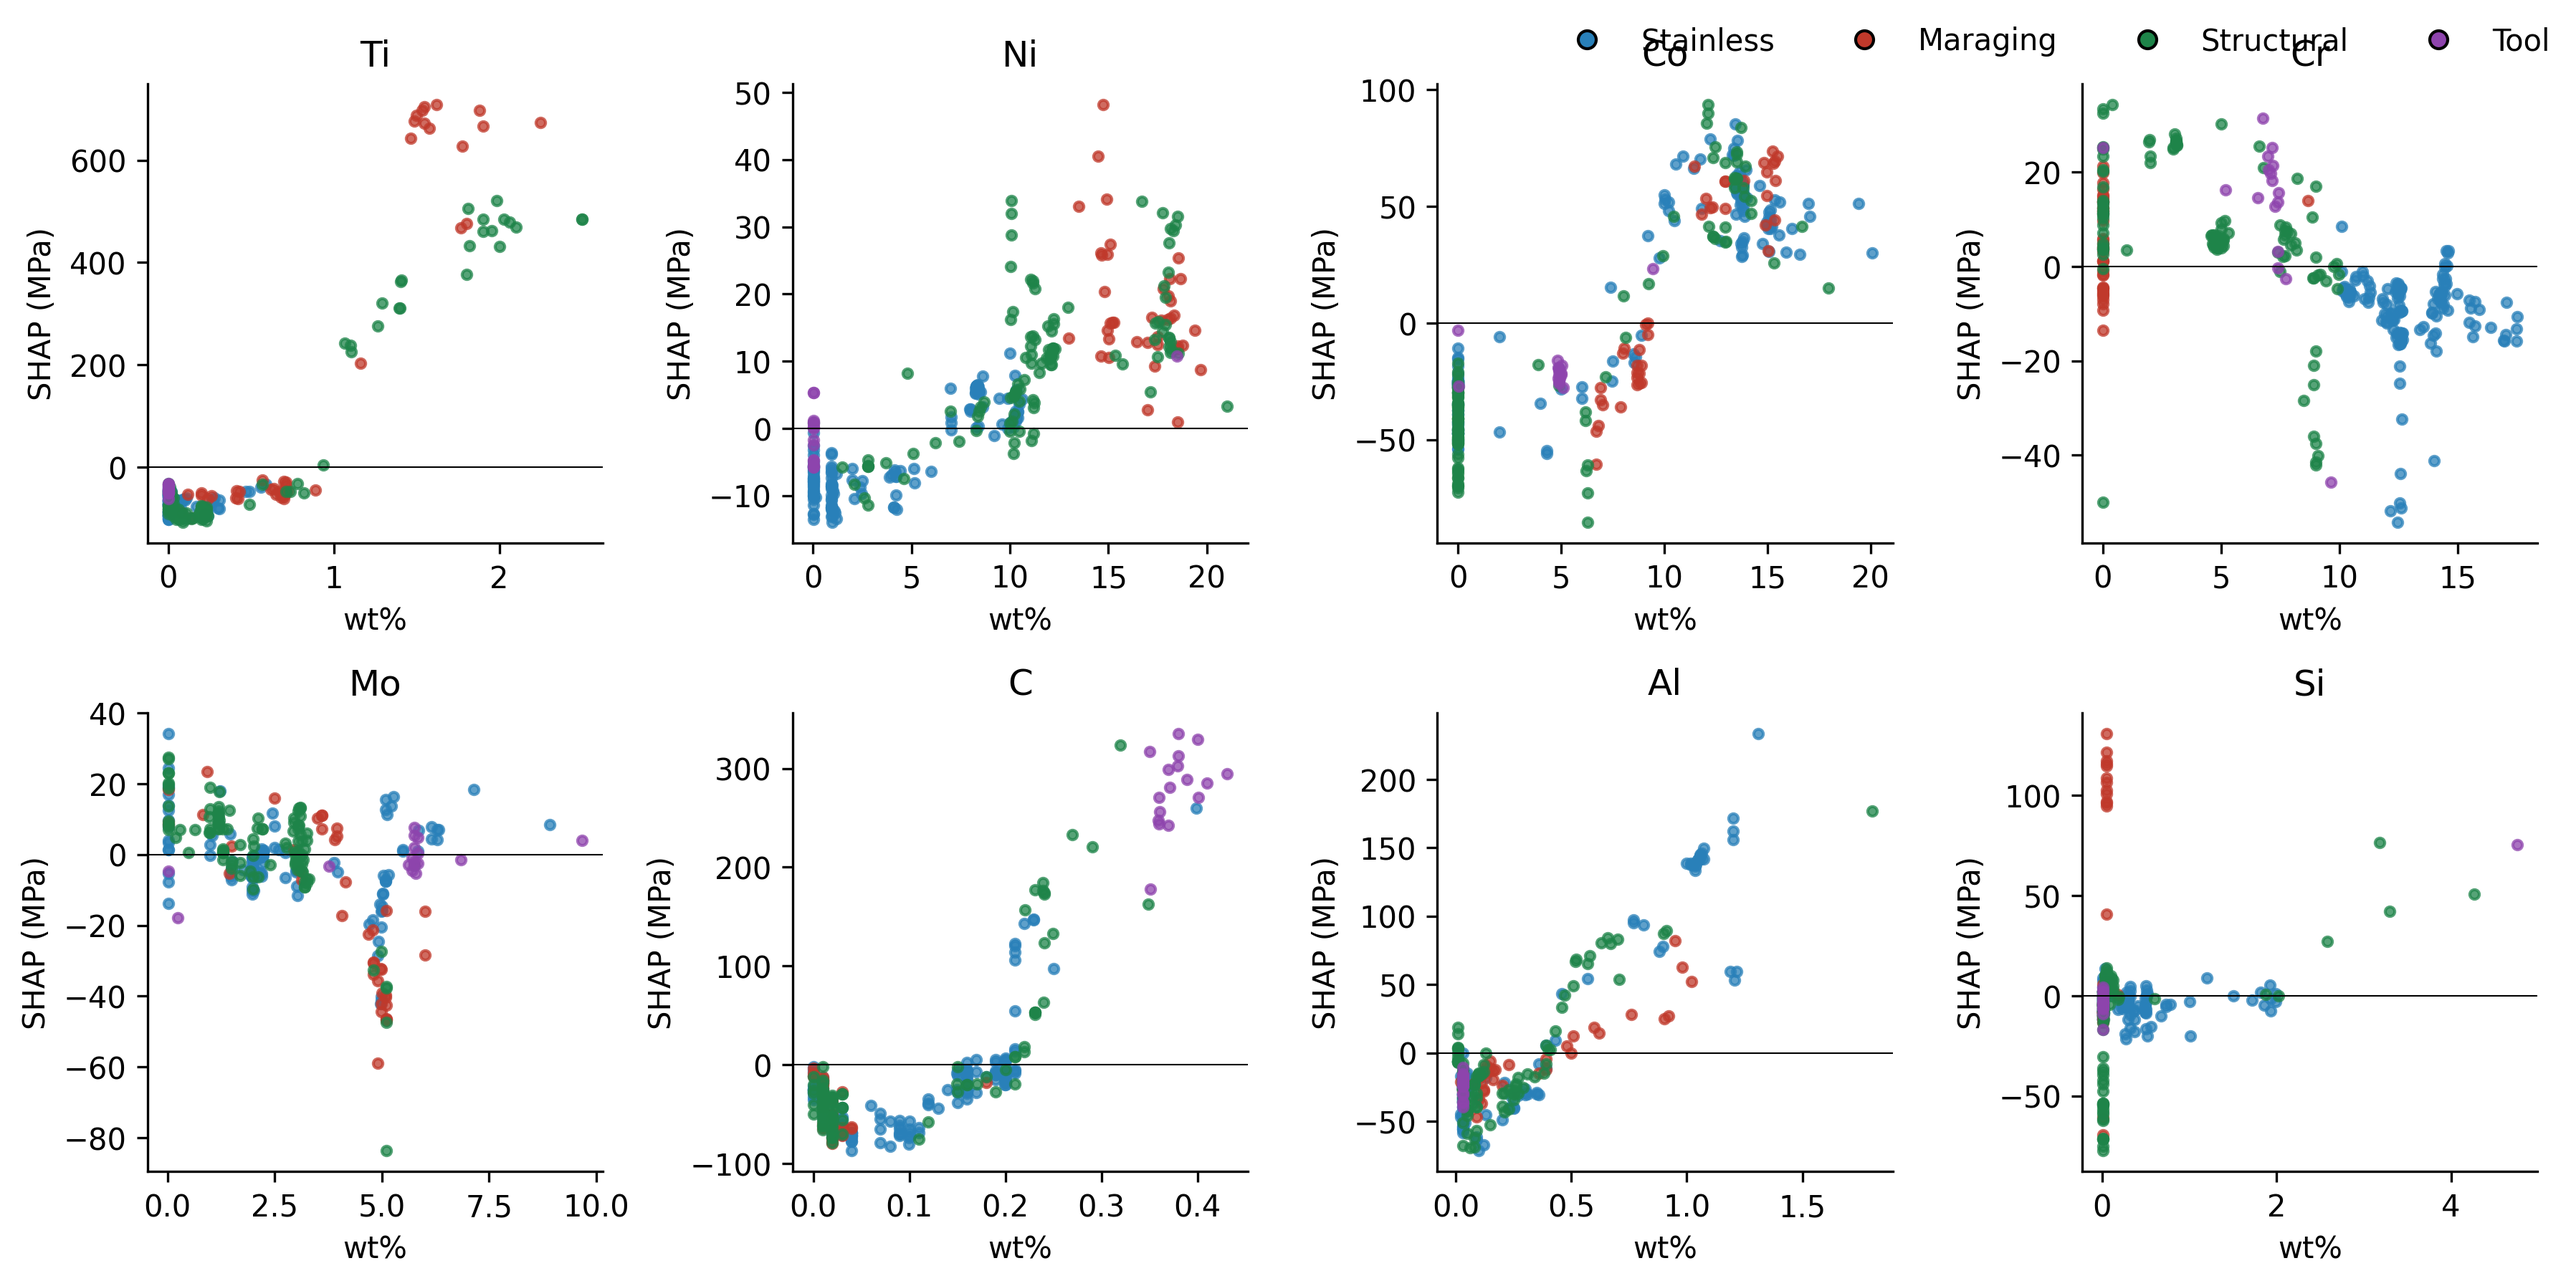
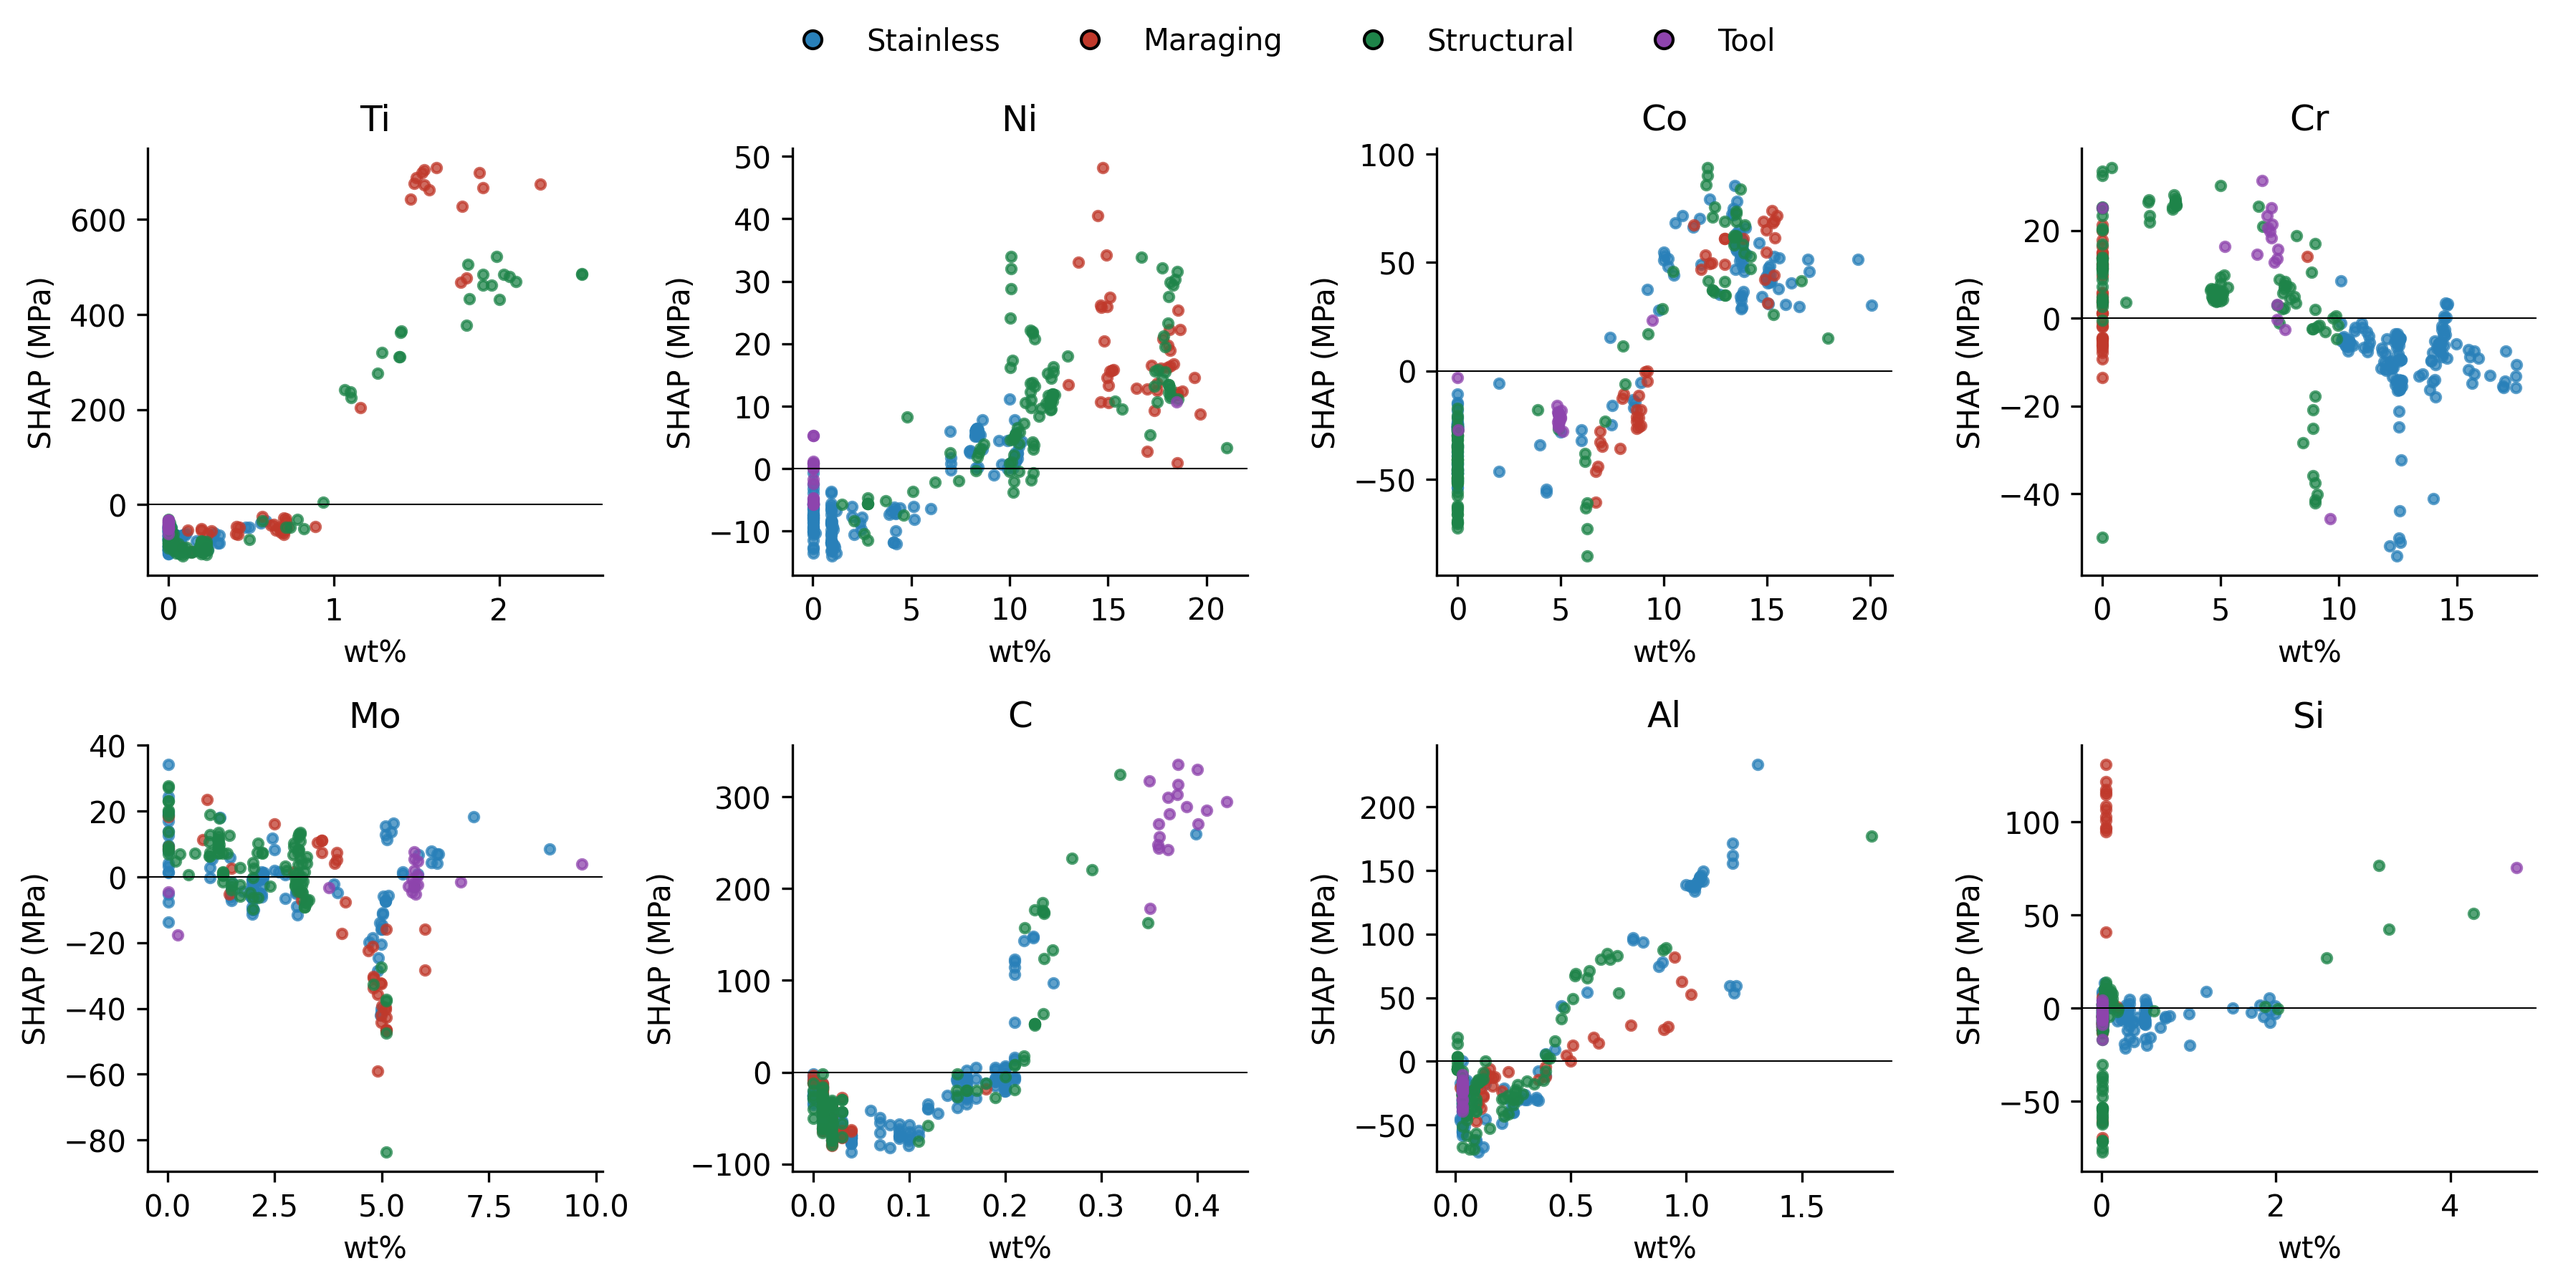
Move the SHAP dependence legend clear of the panels

diff --git a/src/stage4_shap.py b/src/stage4_shap.py
@@ -629,8 +629,8 @@ def _plot_dependence(headline, df_wt, families):
         ax.set_xlabel("wt%")
         ax.set_ylabel("SHAP (MPa)")
     handles = [Line2D([0], [0], marker="o", color="none", markerfacecolor=c, label=f, markersize=6) for f, c in FAMILY_COLORS.items()]
-    fig.legend(handles=handles, frameon=False, loc="upper right", ncol=4)
-    fig.tight_layout()
+    fig.legend(handles=handles, frameon=False, loc="upper center", ncol=4)
+    fig.tight_layout(rect=(0, 0, 1, 0.95))
     fig.savefig(os.path.join(FIG_DIR, "fig16_shap_dependence.png"))
     plt.close(fig)
 
